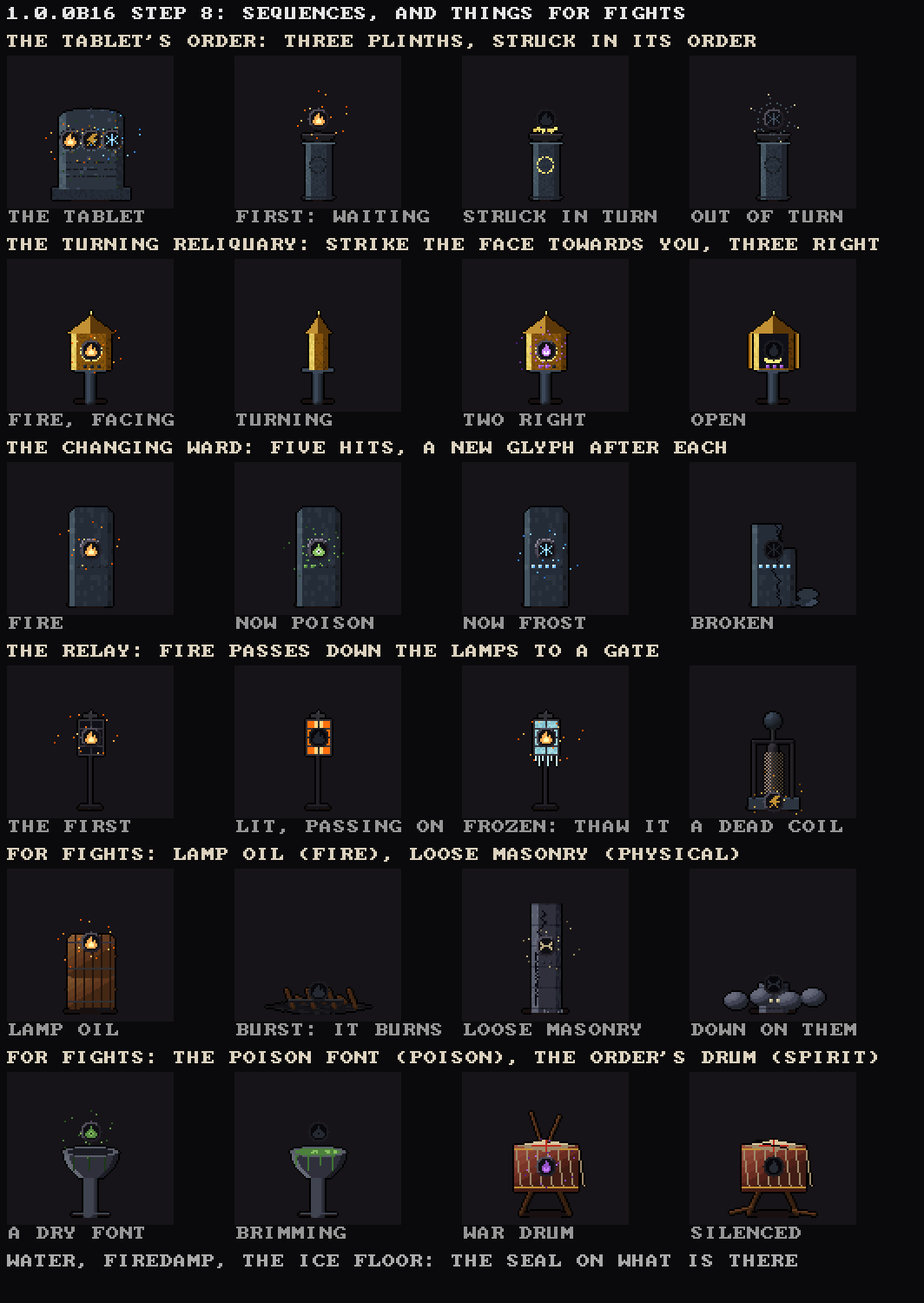
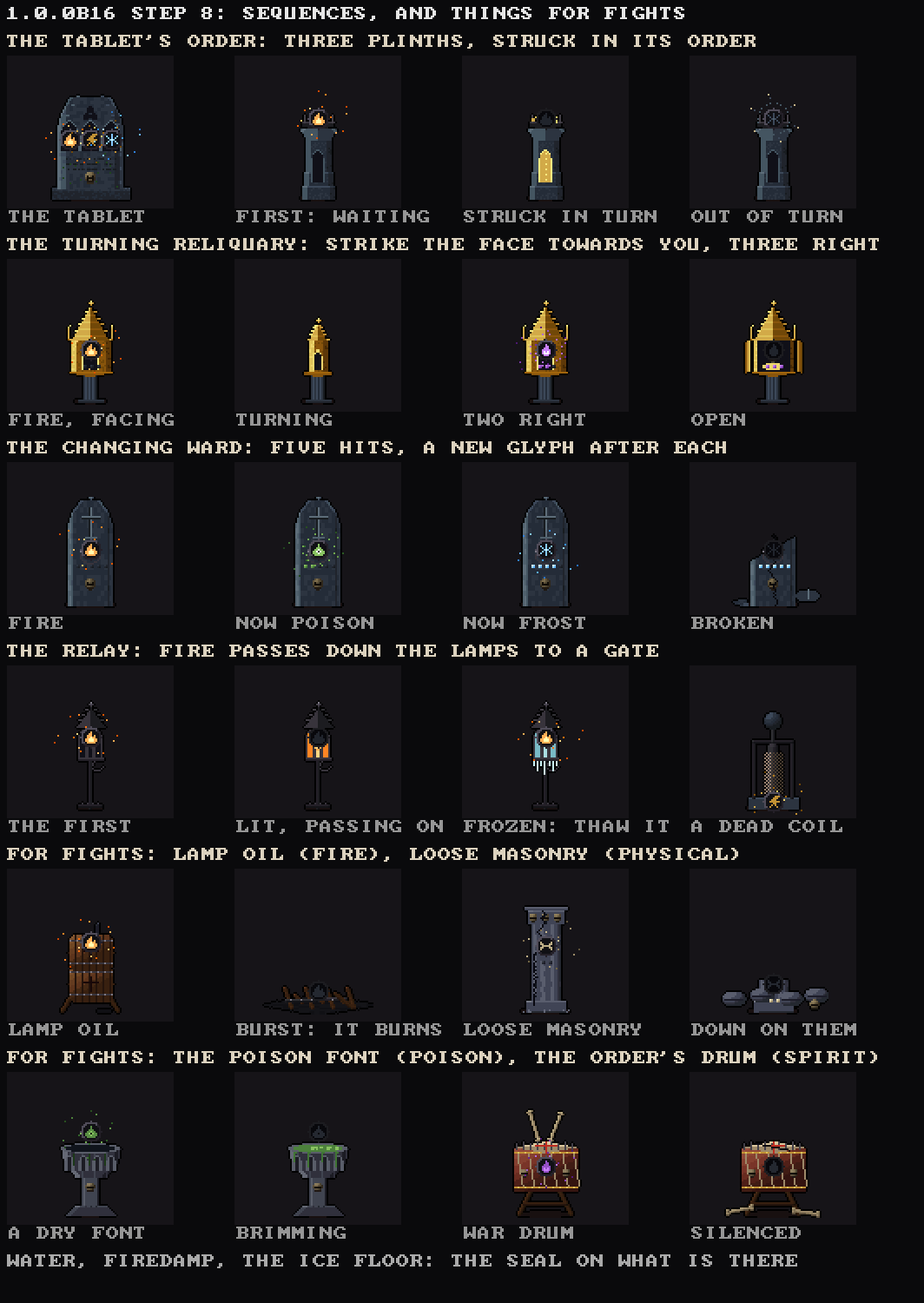
1.0.0b16 step 8: its things redrawn in a gothic hand
Lancet niches, crocketed spires and finials, tracery, a Calvary cross on the
ward-stone, a capital of skulls on the column, a blind arcade round the font,
spikes and bone sticks on the drum, at the owner's word.

Claude-Session: https://claude.ai/code/session_017SN6xmT5taCGQxkvo7jH3J

diff --git a/src/crawl_art.c b/src/crawl_art.c
@@ -3592,162 +3592,235 @@ static void spr_mk_ice(int id) {
     cv_store(id);
 }
 
-/* ---- step 8 (sections 4.4 and 4.5): sequences, and things for fights ---- */
-/* a tablet of old stone on a step, three round sockets cut across it for the glyphs it shows, a line of text under */
+/* ---- step 8 (sections 4.4 and 4.5): sequences, and things for fights, in a gothic hand ---- */
+static float g_arch(float dx, float w) { float a = w + fabsf(dx); return 4 * w * w - a * a > 0 ? sqrtf(4 * w * w - a * a) : 0.0f; }   /* an equilateral
+                                                                       pointed arch's height over its springing, dx from its middle */
+static void g_crockets(float x0, float y0, float x1, float y1, int n, uint8_t c) {   /* little leaves up a sloping edge */
+    for (int k = 1; k < n; k++) { float u = (float)k / n; int x = (int)(x0 + (x1 - x0) * u), y = (int)(y0 + (y1 - y0) * u); cv_px(x + (x1 > x0 ? -1 : 1), y - 1, c); cv_px(x, y - 1, c); }
+}
+static void g_finial(float cx, float top, int ramp, float v) {    /* a finial: a knop and a cross-leaf */
+    cv_px((int)cx, (int)top, sh(ramp, v + 0.3f)); cv_px((int)cx - 1, (int)top + 1, sh(ramp, v + 0.1f)); cv_px((int)cx + 1, (int)top + 1, sh(ramp, v));
+    cv_px((int)cx, (int)top + 1, sh(ramp, v + 0.2f)); cv_px((int)cx, (int)top + 2, sh(ramp, v));
+}
+static void g_lancet(float cx, float ys, float w, float yb, uint8_t c, uint8_t rim) {   /* a lancet window or niche, sunk */
+    for (int y = (int)(ys - g_arch(0, w)) - 1; y <= (int)yb; y++)
+        for (int x = (int)(cx - w) - 1; x <= (int)(cx + w) + 1; x++) {
+            float dx = x + 0.5f - cx, top = ys - g_arch(dx, w);
+            if (fabsf(dx) > w + 0.5f || y < top - 0.6f) continue;
+            cv_px(x, y, (fabsf(dx) > w - 0.6f || y < top + 0.6f) ? rim : c);
+        }
+}
+static void g_quatrefoil(float cx, float cy, float r, uint8_t c) {
+    for (int k = 0; k < 4; k++) { float a = k * 1.5708f; cv_flat(cx + cosf(a) * r * 0.55f, cy + sinf(a) * r * 0.55f, r * 0.5f, r * 0.5f, c); }
+}
+/* the tablet: a lancet-headed slab with a crocketed hood and finial, a trefoil in its head, three sockets for the glyphs it
+ * shows, worn black-letter under them and a skull carved at its foot, on a moulded step */
 static void spr_mk_tablet(int id) {
     cv_begin(cv_sprite, TS, TS);
     cv_flat(32, 62, 20, 1.8f, R_WARM + 1);
-    for (int y = 56; y <= 62; y++) for (int x = 10; x <= 54; x++) cv_px(x, y, sh(R_STONE, 0.22f + 0.1f * (y == 56) + 0.05f * h01(x, y, 701)));   /* the step */
-    for (int y = 10; y <= 56; y++)
-        for (int x = 14; x <= 50; x++) {
-            float top = 10 + 5 * (1 - sqrtf(fmaxf(0, 1 - ((x - 32) / 18.0f) * ((x - 32) / 18.0f))));   /* a round head */
-            if (y < top) continue;
-            cv_px(x, y, sh(R_STONE, 0.3f + 0.16f * (x < 18) - 0.1f * (x > 46) + 0.07f * h01(x / 2, y / 2, 703)));
+    for (int y = 56; y <= 62; y++) for (int x = 10; x <= 54; x++) cv_px(x, y, sh(R_STONE, 0.2f + 0.14f * (y == 56) + 0.08f * (y == 57) + 0.05f * h01(x, y, 701)));
+    for (int y = 4; y <= 56; y++)
+        for (int x = 13; x <= 51; x++) {
+            float dx = x + 0.5f - 32, top = 26 - g_arch(dx, 19);
+            if (fabsf(dx) > 19 || y < top) continue;
+            int edge = fabsf(dx) > 16.5f || y < top + 2.5f;           /* the hood mould */
+            cv_px(x, y, sh(R_STONE, (edge ? 0.42f : 0.28f) + 0.14f * (dx < -14) - 0.1f * (dx > 14) + 0.06f * h01(x / 2, y / 2, 703)));
         }
-    for (int k = 0; k < 3; k++) {                                   /* the sockets, sunk */
-        float cx = 20 + 12 * k, cy = 28;
-        for (int y = 22; y <= 34; y++) for (int x = (int)cx - 6; x <= (int)cx + 6; x++) {
-            float d = hypotf(x - cx, y - cy);
-            if (d < 5.5f) cv_px(x, y, sh(R_STONE, 0.08f + 0.06f * (y > cy)));
-            else if (d < 6.5f) cv_px(x, y, sh(R_STONE, y < cy ? 0.12f : 0.5f));
-        }
+    g_crockets(13, 26, 32, 26 - g_arch(0, 19), 6, sh(R_STONE, 0.55f)); g_crockets(51, 26, 32, 26 - g_arch(0, 19), 6, sh(R_STONE, 0.4f));
+    g_finial(32, 26 - g_arch(0, 19) - 3, R_STONE, 0.35f);
+    for (int k = 0; k < 3; k++) { float a = -1.5708f + k * 2.094f; cv_flat(32 + cosf(a) * 2.6f, 14 + sinf(a) * 2.6f, 2.0f, 2.0f, sh(R_STONE, 0.08f)); }   /* a trefoil */
+    for (int k = 0; k < 3; k++) {                                   /* the sockets, each in its own small pointed niche */
+        float cx = 20 + 12 * k;
+        g_lancet(cx, 26, 5.2f, 34, sh(R_STONE, 0.07f), sh(R_STONE, 0.5f));
     }
-    for (int r = 0; r < 3; r++) for (int x = 18; x <= 46; x++) if (h01(x, r, 705) > 0.35f) cv_px(x, 41 + r * 4, sh(R_STONE, 0.12f));   /* worn words */
-    for (int i = 0; i < 18; i++) cv_px((int)(15 + h01(i, 1, 707) * 34), (int)(12 + h01(i, 2, 707) * 44), sh(R_MOSS, 0.35f));
+    for (int r = 0; r < 3; r++) for (int x = 18; x <= 46; x++) if (h01(x, r, 705) > 0.4f) cv_px(x, 39 + r * 3, sh(R_STONE, 0.1f + 0.1f * ((x & 3) == 0)));   /* black-letter, worn */
+    cv_skull(32, 50, 0.55f, 0.12f, 0.45f);
+    for (int i = 0; i < 16; i++) cv_px((int)(15 + h01(i, 1, 707) * 34), (int)(30 + h01(i, 2, 707) * 26), sh(R_MOSS, 0.35f));
     cv_outline(0);
     cv_store(id);
 }
-/* a short post of stone with an iron bowl on it, its face carved with a ring; struck right, the ring burns gold */
+/* a plinth like a buttress's pinnacle: stepped, a lancet niche in its face, an iron dish with spikes on its crocketed top;
+ * struck right, the niche burns gold and the dish smoulders */
 static void spr_mk_plinth(int id, int lit) {
     cv_begin(cv_sprite, TS, TS);
-    cv_flat(32, 62, 10, 1.6f, R_WARM + 1);
-    for (int y = 30; y <= 62; y++) for (int x = 25; x <= 39; x++) cv_px(x, y, sh(R_STONE, 0.28f + 0.18f * (x < 28) - 0.1f * (x > 36) + 0.05f * h01(x, y, 711)));
-    for (int x = 23; x <= 41; x++) { cv_px(x, 30, sh(R_STONE, 0.5f)); cv_px(x, 61, sh(R_STONE, 0.2f)); }
-    cv_flat(32, 27, 9, 2.6f, sh(R_IRON, 0.22f)); for (int x = 23; x <= 41; x++) cv_px(x, 25, sh(R_IRON, 0.45f));
-    for (int a = 0; a < 24; a++) { float t = a * 0.2618f; cv_px((int)(32 + cosf(t) * 4.5f), (int)(43 + sinf(t) * 4.5f), lit ? (uint8_t)(R_GOLD + 10 + (a & 1) * 2) : sh(R_STONE, 0.1f)); }
-    if (lit) for (int i = 0; i < 6; i++) cv_flat(26 + i * 2.4f, 23 - (i & 1), 1.2f, 1.6f, (uint8_t)(R_GOLD + 9 + (i % 3)));
+    cv_flat(32, 62, 11, 1.6f, R_WARM + 1);
+    for (int y = 28; y <= 62; y++) {
+        int w = y > 54 ? 9 : y > 46 ? 8 : 7;                         /* set-offs, as a buttress steps */
+        for (int x = 32 - w; x <= 32 + w; x++) cv_px(x, y, sh(R_STONE, 0.26f + 0.18f * (x < 32 - w + 3) - 0.1f * (x > 32 + w - 3) + 0.05f * h01(x, y, 711) + 0.12f * (y == 47 || y == 55)));
+    }
+    g_lancet(32, 40, 3.6f, 52, lit ? (uint8_t)(R_GOLD + 8) : sh(R_STONE, 0.06f), lit ? (uint8_t)(R_GOLD + 12) : sh(R_STONE, 0.45f));
+    if (lit) for (int y = 36; y <= 51; y += 3) cv_px(32, y, (uint8_t)(R_GOLD + 12));
+    for (int y = 22; y <= 28; y++) { int w = 7 + (28 - y) / 2; for (int x = 32 - w; x <= 32 + w; x++) cv_px(x, y, sh(R_STONE, 0.35f + 0.1f * (x < 32))); }   /* its capital */
+    g_crockets(22, 26, 25, 22, 3, sh(R_STONE, 0.6f)); g_crockets(42, 26, 39, 22, 3, sh(R_STONE, 0.45f));
+    cv_flat(32, 20, 9, 2.0f, sh(R_IRON, 0.2f)); for (int x = 23; x <= 41; x++) cv_px(x, 18, sh(R_IRON, 0.45f));   /* the dish */
+    for (int k = 0; k < 5; k++) { int x = 24 + k * 4; cv_line(x, 18, x, 14 - (k & 1), sh(R_IRON, 0.5f)); }   /* its spikes */
+    if (lit) for (int i = 0; i < 7; i++) cv_flat(25 + i * 2.2f, 17 - (i & 1), 1.2f, 1.6f, (uint8_t)(R_GOLD + 8 + (i % 4)));
     cv_outline(0);
     cv_store(id);
 }
-/* a gilt reliquary under a little pitched roof on a pillar, turning slowly: its face to you (a round window), turned
- * (narrow, its side), and, the three answered, its doors open on gold */
+/* a gilt shrine on a clustered shaft, turning: a steep spire with crockets, pinnacles at its shoulders, a lancet window with
+ * a quatrefoil over; turned, its narrow side; answered, its doors open on gold and a skull in a crown */
 static void spr_mk_reliq(int id, int f) {
     cv_begin(cv_sprite, TS, TS);
-    cv_flat(32, 62, 9, 1.6f, R_WARM + 1);
-    cv_capsule(32, 44, 32, 62, 2.6f, R_STONE, 0.15f, 0.5f);
-    cv_flat(32, 44, 9, 1.6f, sh(R_STONE, 0.4f));
-    int hw = f == 1 ? 5 : 11;                                       /* turned, it shows its narrow side */
-    for (int y = 22; y <= 43; y++) for (int x = 32 - hw; x <= 32 + hw; x++) cv_px(x, y, sh(R_GOLD, 0.35f + 0.4f * (x < 32 - hw + 3) - 0.15f * (x > 32 + hw - 3) + 0.08f * h01(x, y, 721)));
-    for (int y = 12; y <= 22; y++) { int w = (y - 12) * (hw + 2) / 10; for (int x = 32 - w; x <= 32 + w; x++) cv_px(x, y, sh(R_GOLD, 0.25f + 0.35f * (x < 32))); }
-    cv_px(32, 11, (uint8_t)(R_GOLD + 12)); cv_px(32, 10, (uint8_t)(R_GOLD + 12));
-    if (f == 0) for (int y = 26; y <= 39; y++) for (int x = 25; x <= 39; x++) { float d = hypotf(x - 32, y - 32.5f); if (d < 6.5f) cv_px(x, y, d > 5.4f ? sh(R_GOLD, 0.9f) : sh(R_STONE, 0.06f)); }
-    if (f == 2) {                                                   /* open: its doors swung out, gold within */
-        for (int y = 23; y <= 42; y++) for (int x = 24; x <= 40; x++) cv_px(x, y, sh(R_STONE, 0.05f));
-        for (int y = 23; y <= 42; y++) { cv_px(18, y, sh(R_GOLD, 0.5f)); cv_px(19, y, sh(R_GOLD, 0.7f)); cv_px(45, y, sh(R_GOLD, 0.4f)); cv_px(46, y, sh(R_GOLD, 0.6f)); }
-        cv_flat(32, 38, 5, 2.5f, sh(R_GOLD, 0.9f)); cv_flat(30, 35, 2, 1.5f, (uint8_t)(R_GOLD + 12));
+    cv_flat(32, 62, 10, 1.6f, R_WARM + 1);
+    for (int k = -1; k <= 1; k++) cv_capsule(32 + k * 2.2f, 46, 32 + k * 2.2f, 61, 1.3f, R_STONE, 0.15f + 0.1f * (k < 0), 0.5f);   /* a clustered shaft */
+    for (int x = 25; x <= 39; x++) { cv_px(x, 61, sh(R_STONE, 0.35f)); cv_px(x, 62, sh(R_STONE, 0.2f)); }
+    cv_flat(32, 46, 8, 1.6f, sh(R_GOLD, 0.45f));
+    int hw = f == 1 ? 5 : 11;
+    for (int y = 26; y <= 45; y++) for (int x = 32 - hw; x <= 32 + hw; x++) cv_px(x, y, sh(R_GOLD, 0.35f + 0.38f * (x < 32 - hw + 3) - 0.15f * (x > 32 + hw - 3) + 0.08f * h01(x, y, 721)));
+    for (int x = 32 - hw - 1; x <= 32 + hw + 1; x++) { cv_px(x, 26, sh(R_GOLD, 0.7f)); cv_px(x, 45, sh(R_GOLD, 0.5f)); }
+    float spire = f == 1 ? 6 : 13;                                   /* the spire, steep */
+    for (int y = (int)(26 - spire * 1.4f); y <= 26; y++) { float w = (y - (26 - spire * 1.4f)) / (spire * 1.4f) * (hw - 1); for (int x = (int)(32 - w); x <= (int)(32 + w); x++) cv_px(x, y, sh(R_GOLD, 0.3f + 0.35f * (x < 32) + 0.1f * ((y & 3) == 0))); }
+    g_crockets(32 - hw + 1, 26, 32, 26 - spire * 1.4f, 5, (uint8_t)(R_GOLD + 11));
+    g_crockets(32 + hw - 1, 26, 32, 26 - spire * 1.4f, 5, sh(R_GOLD, 0.6f));
+    g_finial(32, 26 - spire * 1.4f - 3, R_GOLD, 0.6f);
+    if (f != 1) for (int s = -1; s <= 1; s += 2) { cv_capsule(32 + s * 12.5f, 20, 32 + s * 12.5f, 26, 0.9f, R_GOLD, 0.4f, 0.8f); cv_px(32 + s * 12, 18, (uint8_t)(R_GOLD + 12)); }   /* pinnacles */
+    if (f == 0) { g_lancet(32, 36, 4.5f, 43, sh(R_STONE, 0.05f), sh(R_GOLD, 0.95f)); g_quatrefoil(32, 29.5f, 3.0f, sh(R_STONE, 0.06f)); }
+    if (f == 1) g_lancet(32, 36, 2.2f, 43, sh(R_STONE, 0.05f), sh(R_GOLD, 0.8f));
+    if (f == 2) {                                                   /* open: doors out like wings, a crowned skull on gold */
+        for (int y = 27; y <= 44; y++) for (int x = 23; x <= 41; x++) cv_px(x, y, sh(R_STONE, 0.04f));
+        for (int y = 27; y <= 44; y++) for (int k = 0; k < 3; k++) { cv_px(16 + k, y + (k == 0), sh(R_GOLD, 0.45f + 0.15f * k)); cv_px(46 + k, y + (k == 2), sh(R_GOLD, 0.6f - 0.15f * k)); }
+        cv_flat(32, 42, 6, 2, sh(R_GOLD, 0.85f));
+        cv_skull(32, 36, 0.5f, 0.3f, 0.8f);
+        for (int k = 0; k < 5; k++) cv_px(29 + k + (k > 2), 31 - (k & 1), (uint8_t)(R_GOLD + 12));   /* its crown */
     }
     cv_outline(0);
     cv_store(id);
 }
-/* a ward-stone set before a door, an iron ring in its face; broken, split down and its top fallen */
+/* the ward-stone: a lancet-headed stone before a door, a Calvary cross in relief over an iron ring and a skull at its foot;
+ * broken, split down, its head fallen */
 static void spr_mk_wardstone(int id, int broken) {
     cv_begin(cv_sprite, TS, TS);
-    cv_flat(32, 62, 14, 1.8f, R_WARM + 1);
-    for (int y = 6; y <= 62; y++) for (int x = 20; x <= 44; x++) {
-        if (broken && y < 30 && x > 32 + (30 - y) / 3) continue;      /* its top gone on the right */
-        if (broken && y < 16) continue;
-        if (y < 10 && abs(x - 32) > 9 + (y - 6)) continue;
-        cv_px(x, y, sh(R_STONE, 0.25f + 0.2f * (x < 23) - 0.1f * (x > 41) + 0.06f * h01(x / 2, y / 3, 731)));
+    cv_flat(32, 62, 15, 1.8f, R_WARM + 1);
+    for (int y = 2; y <= 62; y++) for (int x = 19; x <= 45; x++) {
+        float dx = x + 0.5f - 32, top = 20 - g_arch(dx, 13);
+        if (fabsf(dx) > 13 || y < top) continue;
+        if (broken && y < 30 - (int)(dx * 0.6f)) continue;          /* its head gone, a slanting break */
+        int edge = fabsf(dx) > 11 || y < top + 2;
+        cv_px(x, y, sh(R_STONE, (edge ? 0.38f : 0.26f) + 0.16f * (dx < -10) - 0.1f * (dx > 10) + 0.06f * h01(x / 2, y / 3, 731)));
     }
-    if (!broken) for (int a = 0; a < 30; a++) { float t = a * 0.2094f; cv_px((int)(32 + cosf(t) * 6), (int)(30 + sinf(t) * 6), sh(R_IRON, 0.5f + 0.3f * (sinf(t) < 0))); }
-    else {
-        int x = 32; for (int y = 16; y <= 62; y++) { x += (int)(h01(y, 3, 733) * 3) - 1; cv_px(x, y, sh(R_STONE, 0.02f)); }
-        for (int i = 0; i < 10; i++) cv_flat(44 + h01(i, 1, 735) * 14, 59 + h01(i, 2, 735) * 3, 2.4f, 1.3f, sh(R_STONE, 0.25f + 0.2f * h01(i, 3, 735)));
-        cv_flat(52, 56, 6, 3, sh(R_STONE, 0.3f));
+    if (!broken) {
+        for (int y = 6; y <= 22; y++) cv_px(32, y, sh(R_STONE, 0.6f)), cv_px(31, y, sh(R_STONE, 0.15f));   /* the cross, raised */
+        for (int x = 27; x <= 37; x++) cv_px(x, 11, sh(R_STONE, 0.6f)), cv_px(x, 12, sh(R_STONE, 0.15f));
+        for (int x = 29; x <= 35; x++) cv_px(x, 23, sh(R_STONE, 0.5f));
+        g_finial(32, -1, R_STONE, 0.4f);
+    }
+    for (int a = 0; a < 30; a++) { float t = a * 0.2094f; cv_px((int)(32 + cosf(t) * 5.5f), (int)(33 + sinf(t) * 5.5f), sh(R_IRON, 0.45f + 0.3f * (sinf(t) < 0))); }
+    cv_px(32, 27, sh(R_IRON, 0.6f)); cv_px(32, 28, sh(R_IRON, 0.5f));
+    cv_skull(32, 50, 0.5f, 0.1f, 0.4f);
+    if (broken) {
+        int x = 33; for (int y = 22; y <= 62; y++) { x += (int)(h01(y, 3, 733) * 3) - 1; cv_px(x, y, sh(R_STONE, 0.02f)); }
+        cv_flat(52, 57, 7, 3.5f, sh(R_STONE, 0.3f)); for (int y = 53; y <= 58; y++) cv_px(52, y, sh(R_STONE, 0.6f));   /* its head, the cross on it */
+        for (int i = 0; i < 8; i++) cv_flat(10 + h01(i, 1, 735) * 10, 59 + h01(i, 2, 735) * 3, 1.8f, 1.1f, sh(R_STONE, 0.25f + 0.2f * h01(i, 3, 735)));
     }
     cv_outline(0);
     cv_store(id);
 }
-/* the relay's lamp: an iron cage on a post; dead (dark glass), lit, frozen (rimed, icicles) */
+/* the relay's lamp: a gothic lantern of black iron, lancet panes and a spired cap with a finial, on a spiked post with a
+ * curled bracket; dead (dark glass), lit, frozen (rimed, icicles) */
 static void spr_mk_relay(int id, int st) {
     cv_begin(cv_sprite, TS, TS);
-    cv_flat(32, 62, 7, 1.4f, R_WARM + 1);
-    cv_capsule(32, 30, 32, 62, 1.4f, R_IRON, 0.05f, 0.35f);
-    cv_capsule(27, 61, 37, 61, 1.2f, R_IRON, 0.05f, 0.3f);
-    for (int y = 12; y <= 30; y++) for (int x = 26; x <= 38; x++) cv_px(x, y, st == 1 ? sh(R_FLAME, 0.55f + 0.3f * (fabsf(x - 32.0f) < 3)) : st == 2 ? sh(R_GHOST, 0.55f + 0.2f * h01(x, y, 741)) : sh(R_STONE, 0.07f));
-    for (int y = 11; y <= 31; y += 5) for (int x = 25; x <= 39; x++) cv_px(x, y, sh(R_IRON, 0.4f));
-    for (int x = 25; x <= 39; x += 7) for (int y = 11; y <= 31; y++) cv_px(x, y, sh(R_IRON, 0.35f));
-    cv_flat(32, 9, 4, 1.6f, sh(R_IRON, 0.3f)); cv_px(32, 6, sh(R_IRON, 0.5f)); cv_px(32, 7, sh(R_IRON, 0.5f));
-    if (st == 1) cv_ellipse(32, 22, 2.2f, 4, R_FLAME, 0.7f, 1.0f);
-    if (st == 2) for (int k = 0; k < 6; k++) cv_line(26 + k * 2.4f, 32, 26 + k * 2.4f, 34 + (k & 1) * 3, sh(R_GHOST, 0.85f));
+    cv_flat(32, 62, 8, 1.4f, R_WARM + 1);
+    cv_capsule(32, 34, 32, 62, 1.4f, R_IRON, 0.05f, 0.35f);
+    cv_capsule(26, 61, 38, 61, 1.3f, R_IRON, 0.05f, 0.3f);
+    for (int k = 0; k < 4; k++) cv_px(27 + k * 3, 59, sh(R_IRON, 0.45f));
+    for (int a = 0; a < 10; a++) { float t = a * 0.45f; cv_px((int)(36 + cosf(t) * 3), (int)(38 + sinf(t) * 3), sh(R_IRON, 0.4f)); }   /* a curl */
+    for (int p = -1; p <= 1; p++)                                    /* three lancet panes */
+        g_lancet(32 + p * 4.4f, 20, 1.8f, 32,
+                 st == 1 ? sh(R_FLAME, 0.6f + 0.25f * (p == 0)) : st == 2 ? sh(R_GHOST, 0.55f + 0.2f * (p == 0)) : sh(R_STONE, 0.06f), sh(R_IRON, 0.4f));
+    for (int x = 25; x <= 39; x++) { cv_px(x, 33, sh(R_IRON, 0.45f)); cv_px(x, 34, sh(R_IRON, 0.25f)); }
+    for (int y = 4; y <= 15; y++) { int w = (y - 4) * 8 / 11; for (int x = 32 - w; x <= 32 + w; x++) cv_px(x, y, sh(R_IRON, 0.18f + 0.25f * (x < 32))); }   /* the cap */
+    g_crockets(24, 15, 32, 4, 4, sh(R_IRON, 0.5f)); g_crockets(40, 15, 32, 4, 4, sh(R_IRON, 0.35f));
+    g_finial(32, 1, R_IRON, 0.4f);
+    if (st == 1) cv_ellipse(32, 26, 1.8f, 3.4f, R_FLAME, 0.75f, 1.0f);
+    if (st == 2) for (int k = 0; k < 7; k++) cv_line(25 + k * 2.3f, 35, 25 + k * 2.3f, 37 + (k & 1) * 3 + (k == 3) * 2, sh(R_GHOST, 0.85f));
     cv_outline(0);
     cv_store(id);
 }
-/* lamp oil: two casks, one on the other; burst, their staves sprung and the oil run out dark over the floor */
+/* lamp oil: two casks on a cradle, banded in riveted iron, burnt with the Order's cross, a black candle stuck on top;
+ * burst, the staves sprung and the oil run out dark over the floor */
 static void spr_mk_cask(int id, int burst) {
     cv_begin(cv_sprite, TS, TS);
     if (burst) {
-        for (int y = 54; y <= 63; y++) for (int x = 2; x <= 62; x++) { float e = fabsf(x - 32.0f) / 30 + fabsf(y - 59.0f) / 5; if (e < 1 + 0.15f * h01(x, y, 751)) cv_px(x, y, sh(R_IRON, 0.08f + 0.12f * h01(x / 3, y, 753))); }
-        for (int k = 0; k < 7; k++) cv_capsule(14 + k * 6, 50 + (k & 1) * 4, 18 + k * 6, 60 - (k & 1) * 3, 1.3f, R_WOOD, 0.15f, 0.45f);   /* staves */
-        cv_capsule(16, 56, 46, 56, 1.0f, R_IRON, 0.1f, 0.4f);
+        for (int y = 52; y <= 63; y++) for (int x = 1; x <= 63; x++) { float e = fabsf(x - 32.0f) / 31 + fabsf(y - 58.0f) / 5.5f; if (e < 1 + 0.15f * h01(x, y, 751)) cv_px(x, y, sh(R_IRON, 0.06f + 0.1f * h01(x / 3, y, 753))); }
+        for (int k = 0; k < 7; k++) cv_capsule(13 + k * 6, 49 + (k & 1) * 4, 17 + k * 6, 60 - (k & 1) * 3, 1.3f, R_WOOD, 0.12f, 0.4f);
+        cv_capsule(14, 56, 48, 55, 1.0f, R_IRON, 0.1f, 0.4f); for (int k = 0; k < 6; k++) cv_px(16 + k * 6, 55, sh(R_IRON, 0.7f));
+        cv_capsule(42, 52, 52, 60, 1.2f, R_WOOD, 0.1f, 0.35f);         /* the cradle, fallen */
     } else {
+        cv_capsule(16, 62, 22, 52, 1.3f, R_WOOD, 0.1f, 0.35f); cv_capsule(48, 62, 42, 52, 1.3f, R_WOOD, 0.1f, 0.35f);   /* the cradle */
         for (int c = 0; c < 2; c++) {
-            float cy = c ? 30 : 49, rx = 14, ry = 12;
+            float cy = c ? 28 : 46, rx = 13, ry = 10;
             for (int y = (int)(cy - ry); y <= (int)(cy + ry); y++) for (int x = 32 - (int)rx; x <= 32 + (int)rx; x++) {
-                float u = (y - cy) / ry; float w = rx * (0.85f + 0.15f * sqrtf(fmaxf(0, 1 - u * u)));
+                float u = (y - cy) / ry, w = rx * (0.84f + 0.16f * sqrtf(fmaxf(0, 1 - u * u)));
                 if (fabsf(x - 32.0f) > w) continue;
-                cv_px(x, y, ((x - 18) % 5 == 0) ? sh(R_WOOD, 0.15f) : sh(R_WOOD, 0.3f + 0.3f * lit((x - 32) / w, u, 0.5f)));
+                cv_px(x, y, ((x - 19) % 4 == 0) ? sh(R_WOOD, 0.12f) : sh(R_WOOD, 0.24f + 0.3f * lit((x - 32) / w, u, 0.5f)));
             }
-            for (int x = 19; x <= 45; x++) { cv_px(x, (int)(cy - ry * 0.6f), sh(R_IRON, 0.45f)); cv_px(x, (int)(cy + ry * 0.6f), sh(R_IRON, 0.35f)); }
+            for (int b = -1; b <= 1; b += 2) for (int x = 20; x <= 44; x++) { int y = (int)(cy + b * ry * 0.62f); cv_px(x, y, sh(R_IRON, 0.4f)); if ((x & 3) == 0) cv_px(x, y, sh(R_IRON, 0.75f)); }
+            cv_line(32, cy - 4, 32, cy + 4, sh(R_BRICK, 0.08f)); cv_line(28, cy - 1, 36, cy - 1, sh(R_BRICK, 0.08f));   /* the Order's cross, burnt */
         }
-        cv_flat(32, 62, 16, 1.6f, R_WARM + 1);
-        cv_flat(40, 61, 5, 1.0f, sh(R_IRON, 0.1f));                  /* a weeping stave */
+        cv_capsule(36, 13, 36, 18, 1.2f, R_STONE, 0.05f, 0.2f); cv_px(36, 11, sh(R_STONE, 0.3f));   /* a black candle, unlit */
+        for (int y = 17; y <= 21; y++) cv_px(35 + (y & 1), y, sh(R_STONE, 0.2f));
+        cv_flat(40, 62, 5, 1.0f, sh(R_IRON, 0.08f));                 /* a weeping stave */
     }
     cv_outline(0);
     cv_store(id);
 }
-/* loose masonry: a column with a crack down it and dust at its foot; brought down, a stump and its drums in a heap */
+/* loose masonry: a clustered column on a moulded base, a capital of skulls under its abacus, a crack down it and dust at its
+ * foot; brought down, the stump and its drums in a heap, a skull rolled clear */
 static void spr_mk_pillar(int id, int down) {
     cv_begin(cv_sprite, TS, TS);
-    cv_flat(32, 62, 14, 1.8f, R_WARM + 1);
-    int top = down ? 46 : 0;
-    for (int y = top; y <= 62; y++) for (int x = 24; x <= 40; x++) cv_px(x, y, sh(R_STONE, 0.24f + 0.22f * (x < 28) - 0.1f * (x > 37) + 0.05f * h01(x, y / 2, 761) - 0.08f * ((y % 12) == 0)));
+    cv_flat(32, 62, 15, 1.8f, R_WARM + 1);
+    for (int y = 56; y <= 62; y++) for (int x = 21; x <= 43; x++) cv_px(x, y, sh(R_STONE, 0.3f + 0.15f * (y == 56) - 0.1f * (y == 62) + 0.12f * (x < 24)));   /* the base */
+    int top = down ? 44 : 12;
+    for (int y = top; y <= 55; y++) for (int s = -1; s <= 1; s++) {    /* three shafts, clustered */
+        int cx = 32 + s * 5, r = s ? 3 : 4;
+        for (int x = cx - r; x <= cx + r; x++) { float u = (x - cx) / (float)r; cv_px(x, y, sh(R_STONE, 0.2f + 0.3f * lit(u, 0, sqrtf(fmaxf(0, 1 - u * u))) + 0.04f * h01(x, y / 3, 761))); }
+    }
     if (!down) {
-        int x = 30; for (int y = 4; y <= 58; y++) { x += (int)(h01(y, 1, 763) * 3) - 1; x = x < 26 ? 26 : x > 38 ? 38 : x; cv_px(x, y, sh(R_STONE, 0.03f)); if (h01(y, 2, 763) > 0.7f) cv_px(x + 1, y, sh(R_STONE, 0.05f)); }
-        for (int i = 0; i < 8; i++) cv_px((int)(22 + h01(i, 3, 765) * 20), 61 + (i & 1), sh(R_STONE, 0.5f));
-    } else for (int d = 0; d < 4; d++) {                            /* its drums, fallen */
-        float cx = 10 + d * 14 + h01(d, 4, 767) * 4, cy = 56 - (d & 1) * 2;
-        cv_ellipse(cx, cy, 7, 5, R_STONE, 0.2f, 0.55f);
+        for (int y = 4; y <= 11; y++) for (int x = 22; x <= 42; x++) cv_px(x, y, sh(R_STONE, 0.32f + 0.12f * (y == 4) + 0.1f * (x < 25)));   /* the capital */
+        for (int k = 0; k < 3; k++) cv_skull(25 + k * 7, 8, 0.38f, 0.15f, 0.45f);
+        for (int x = 20; x <= 44; x++) { cv_px(x, 2, sh(R_STONE, 0.45f)); cv_px(x, 3, sh(R_STONE, 0.3f)); }
+        int x = 30; for (int y = 4; y <= 58; y++) { x += (int)(h01(y, 1, 763) * 3) - 1; x = x < 25 ? 25 : x > 39 ? 39 : x; cv_px(x, y, sh(R_STONE, 0.02f)); if (h01(y, 2, 763) > 0.7f) cv_px(x + 1, y, sh(R_STONE, 0.04f)); }
+        for (int i = 0; i < 10; i++) cv_px((int)(18 + h01(i, 3, 765) * 28), 62 - (i & 1), sh(R_STONE, 0.5f));
+    } else {
+        for (int d = 0; d < 4; d++) { float cx = 9 + d * 15 + h01(d, 4, 767) * 4, cy = 55 - (d & 1) * 2; cv_ellipse(cx, cy, 7, 4.5f, R_STONE, 0.18f, 0.5f); cv_line(cx - 5, cy, cx + 5, cy, sh(R_STONE, 0.12f)); }
+        cv_skull(56, 58, 0.45f, 0.15f, 0.45f);
     }
     cv_outline(0);
     cv_store(id);
 }
-/* the poison font: a stone basin on a stem, dry and stained; filled, brimming with bile, bubbling */
+/* the poison font: an octagonal bowl girt with a blind arcade of little pointed arches, on a clustered stem with a skull at
+ * its knot; dry and stained, or brimming with bile and bubbling */
 static void spr_mk_pfont(int id, int full) {
     cv_begin(cv_sprite, TS, TS);
-    cv_flat(32, 62, 12, 1.6f, R_WARM + 1);
-    cv_capsule(32, 40, 32, 62, 4.0f, R_STONE, 0.18f, 0.5f);
-    for (int x = 22; x <= 42; x++) cv_px(x, 61, sh(R_STONE, 0.3f));
-    for (int y = 26; y <= 40; y++) { float u = (y - 26) / 14.0f; int w = (int)(16 - 9 * u * u); for (int x = 32 - w; x <= 32 + w; x++) cv_px(x, y, sh(R_STONE, 0.25f + 0.25f * (x < 32 - w + 3) - 0.1f * (x > 32 + w - 3))); }
-    cv_flat(32, 26, 16, 3, sh(R_STONE, 0.45f));
-    cv_flat(32, 26, 13.5f, 2.2f, full ? sh(R_MOSS, 0.6f) : sh(R_STONE, 0.1f));
-    if (full) { for (int i = 0; i < 6; i++) cv_flat(22 + h01(i, 1, 771) * 20, 25.5f + h01(i, 2, 771), 1.1f, 0.8f, sh(R_MOSS, 0.9f)); for (int k = 0; k < 4; k++) cv_line(20 + k * 7, 28, 19 + k * 7, 33 + (k & 1) * 3, sh(R_MOSS, 0.55f)); }
-    else for (int k = 0; k < 3; k++) cv_line(22 + k * 9, 29, 22 + k * 9, 36, sh(R_MOSS, 0.25f));   /* old stains */
+    cv_flat(32, 62, 13, 1.6f, R_WARM + 1);
+    for (int y = 57; y <= 62; y++) { int w = 9 + (y - 57); for (int x = 32 - w; x <= 32 + w; x++) cv_px(x, y, sh(R_STONE, 0.25f + 0.15f * (y == 57) + 0.1f * (x < 32 - w + 3))); }
+    for (int s = -1; s <= 1; s++) cv_capsule(32 + s * 3, 40, 32 + s * 3, 57, 1.5f, R_STONE, 0.15f + 0.1f * (s < 0), 0.5f);
+    cv_skull(32, 46, 0.42f, 0.12f, 0.45f);
+    for (int y = 24; y <= 40; y++) { float u = (y - 24) / 16.0f; int w = (int)(17 - 8 * u * u); for (int x = 32 - w; x <= 32 + w; x++) cv_px(x, y, sh(R_STONE, 0.26f + 0.24f * (x < 32 - w + 3) - 0.1f * (x > 32 + w - 3) + 0.08f * (((x - 32 + 40) % 7) == 0))); }   /* eight faces */
+    for (int k = 0; k < 4; k++) g_lancet(20 + k * 8, 31, 2.0f, 36, sh(R_STONE, 0.1f), sh(R_STONE, 0.45f));   /* its arcade */
+    cv_flat(32, 24, 17, 3, sh(R_STONE, 0.45f));
+    cv_flat(32, 24, 14.5f, 2.2f, full ? sh(R_MOSS, 0.6f) : sh(R_STONE, 0.08f));
+    if (full) { for (int i = 0; i < 7; i++) cv_flat(21 + h01(i, 1, 771) * 22, 23.5f + h01(i, 2, 771), 1.1f, 0.8f, sh(R_MOSS, 0.9f)); for (int k = 0; k < 4; k++) cv_line(19 + k * 8, 26, 18 + k * 8, 31 + (k & 1) * 3, sh(R_MOSS, 0.55f)); }
+    else for (int k = 0; k < 3; k++) cv_line(22 + k * 9, 27, 22 + k * 9, 33, sh(R_MOSS, 0.25f));
     cv_outline(0);
     cv_store(id);
 }
-/* the Order's war drum on its trestle, the skin painted with its cross; silenced, the skin slit and the sticks dropped */
+/* the Order's war drum on a trestle, its shell red and gilt-banded, the skin painted with the Order's cross, skulls hung from
+ * its cords and iron spikes round its rim; the sticks of bone raised; silenced, the skin slit and the sticks dropped */
 static void spr_mk_drum(int id, int slit) {
     cv_begin(cv_sprite, TS, TS);
-    cv_flat(32, 62, 16, 1.8f, R_WARM + 1);
-    cv_capsule(18, 62, 26, 44, 1.3f, R_WOOD, 0.1f, 0.4f); cv_capsule(46, 62, 38, 44, 1.3f, R_WOOD, 0.1f, 0.4f);
-    for (int y = 22; y <= 48; y++) for (int x = 14; x <= 50; x++) { float u = (y - 35) / 13.0f; if (fabsf(u) > 1) continue; cv_px(x, y, sh(R_BRICK, 0.25f + 0.3f * lit((x - 32) / 18.0f, u, 0.6f))); }
-    for (int x = 14; x <= 50; x++) for (int k = 0; k < 2; k++) cv_px(x, k ? 24 : 46, sh(R_GOLD, 0.6f));
-    for (int k = 0; k < 7; k++) cv_line(15 + k * 6, 25, 18 + k * 6, 45, sh(R_BONE, 0.55f));   /* its cords */
-    for (int y = 19; y <= 25; y++) for (int x = 16; x <= 48; x++) { float d = abs(y - 22) / 3.5f + abs(x - 32) / 17.0f; if (d < 1) cv_px(x, y, sh(R_BONE, 0.55f + 0.25f * (y < 22))); }   /* the skin, top */
-    cv_line(32, 19, 32, 25, (uint8_t)(R_BLOOD + 10)); cv_line(24, 22, 40, 22, (uint8_t)(R_BLOOD + 10));   /* the Order's cross */
-    if (slit) { cv_line(22, 20, 40, 24, sh(R_STONE, 0.02f)); cv_capsule(8, 61, 20, 58, 0.9f, R_WOOD, 0.2f, 0.5f); cv_capsule(44, 60, 56, 62, 0.9f, R_WOOD, 0.2f, 0.5f); }
-    else { cv_capsule(40, 6, 34, 20, 0.9f, R_WOOD, 0.2f, 0.5f); cv_capsule(24, 4, 29, 19, 0.9f, R_WOOD, 0.2f, 0.5f); }   /* the sticks, raised */
+    cv_flat(32, 62, 17, 1.8f, R_WARM + 1);
+    cv_capsule(17, 62, 26, 44, 1.3f, R_WOOD, 0.08f, 0.35f); cv_capsule(47, 62, 38, 44, 1.3f, R_WOOD, 0.08f, 0.35f); cv_capsule(20, 56, 44, 56, 1.0f, R_WOOD, 0.08f, 0.3f);
+    for (int y = 24; y <= 48; y++) for (int x = 14; x <= 50; x++) { float u = (y - 36) / 12.0f; if (fabsf(u) > 1) continue; cv_px(x, y, sh(R_BRICK, 0.22f + 0.3f * lit((x - 32) / 18.0f, u, 0.6f))); }
+    for (int x = 14; x <= 50; x++) for (int k = 0; k < 2; k++) cv_px(x, k ? 26 : 46, sh(R_GOLD, 0.55f + 0.2f * ((x & 3) == 0)));
+    for (int k = 0; k < 6; k++) cv_line(16 + k * 6.5f, 27, 19 + k * 6.5f, 45, sh(R_BONE, 0.5f));   /* its cords, zig-zagged */
+    for (int k = 0; k < 2; k++) cv_skull(20 + k * 24, 38, 0.38f, 0.15f, 0.5f);   /* skulls hung on them */
+    for (int y = 20; y <= 26; y++) for (int x = 15; x <= 49; x++) { float d = abs(y - 23) / 3.5f + abs(x - 32) / 17.5f; if (d < 1) cv_px(x, y, sh(R_BONE, 0.55f + 0.22f * (y < 23))); }   /* the skin */
+    for (int k = 0; k < 9; k++) { int x = 15 + k * 4; cv_line(x, 24, x, 21 - (k & 1), sh(R_IRON, 0.5f)); }   /* spikes round the rim */
+    cv_line(32, 20, 32, 26, (uint8_t)(R_BLOOD + 10)); cv_line(26, 22, 38, 22, (uint8_t)(R_BLOOD + 10));   /* the Order's cross */
+    if (slit) { cv_line(22, 21, 41, 25, sh(R_STONE, 0.02f)); cv_bone(6, 61, 20, 58, 1.0f, 0.3f, 0.6f); cv_bone(44, 60, 58, 62, 1.0f, 0.3f, 0.6f); }
+    else { cv_bone(41, 4, 35, 19, 1.0f, 0.35f, 0.7f); cv_bone(23, 3, 28, 19, 1.0f, 0.35f, 0.7f); }   /* the sticks, of bone */
     cv_outline(0);
     cv_store(id);
 }
